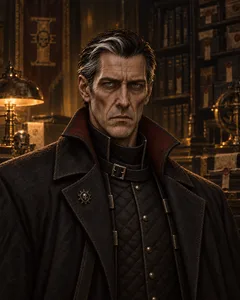
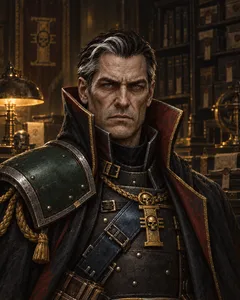
Portraits: make the earlier-incarnation Eisenhorn (v3) leading; refresh QA screenshots

diff --git a/docs/portraits/all-chatgpt.md b/docs/portraits/all-chatgpt.md
@@ -73,7 +73,7 @@ These scenes and unrecorded physical details are **artistic interpretations, not
 | Godwyn Fischig | retinue | [WebP](../../public/portraits/godwyn-fischig.webp) | [PNG](sources/godwyn-fischig.chatgpt.png) | [Prompt](godwyn-fischig-chatgpt.prompt.txt) |
 | Golesh Heldane | inquisition | [WebP](../../public/portraits/golesh-heldane.webp) | [PNG](sources/golesh-heldane.chatgpt.png) | [Prompt](golesh-heldane-chatgpt.prompt.txt) |
 | Gorgone Locke | heretic | [WebP](../../public/portraits/gorgone-locke.webp) | [PNG](sources/gorgone-locke.chatgpt.png) | [Prompt](gorgone-locke-chatgpt.prompt.txt) |
-| Gregor Eisenhorn | inquisition | [WebP](../../public/portraits/gregor-eisenhorn.webp) | [PNG](sources/gregor-eisenhorn.chatgpt-v4.png) | [Prompt](gregor-eisenhorn-chatgpt-v4.prompt.txt) |
+| Gregor Eisenhorn | inquisition | [WebP](../../public/portraits/gregor-eisenhorn.webp) | [PNG](sources/gregor-eisenhorn.chatgpt-v3.png) | [Prompt](gregor-eisenhorn-chatgpt-v3.prompt.txt) |
 | Harlon Nayl | retinue | [WebP](../../public/portraits/harlon-nayl.webp) | [PNG](sources/harlon-nayl.chatgpt-background-v2.png) | [Prompt](harlon-nayl-chatgpt-background-v2.prompt.txt) |
 | Inquisitor Fenx | inquisition | [WebP](../../public/portraits/inquisitor-fenx.webp) | [PNG](sources/inquisitor-fenx.chatgpt.png) | [Prompt](inquisitor-fenx-chatgpt.prompt.txt) |
 | Iosob | civilian | [WebP](../../public/portraits/iosob.webp) | [PNG](sources/iosob.chatgpt.png) | [Prompt](iosob-chatgpt.prompt.txt) |

diff --git a/docs/portraits/revisions-2026-10-09.md b/docs/portraits/revisions-2026-10-09.md
@@ -4,7 +4,7 @@ Four existing portraits were edited with the **built-in ChatGPT Images tool**, p
 
 | Character | Revision direction | Selected source | Exact prompt |
 | --- | --- | --- | --- |
-| Gregor Eisenhorn | Slicked-back dark hair with a silver streak, stern gaunt older face, long charcoal greatcoat with a tall oxblood-lined collar and plain dark fastenings; no later-period cranial framework | [PNG](sources/gregor-eisenhorn.chatgpt-v4.png) | [Prompt](gregor-eisenhorn-chatgpt-v4.prompt.txt) |
+| Gregor Eisenhorn | Earlier incarnation: swept-back dark hair with silver streaks, red-lined collar, green shoulder armour, blue chest strap and gold insignia; no later-period cranial framework | [PNG](sources/gregor-eisenhorn.chatgpt-v3.png) | [Prompt](gregor-eisenhorn-chatgpt-v3.prompt.txt) |
 | Tobias Maxilla | Later-novel blue velvet finery, pale powdered wig, fantail hat, jabot and green jewel beauty spot | [PNG](sources/tobias-maxilla.chatgpt-v2.png) | [Prompt](tobias-maxilla-chatgpt-v2.prompt.txt) |
 | Uber Aemos | More ancient and fragile: hollow cheeks, bony neck, thin age-spotted skin, sparse white hair and narrow sloping shoulders; retain augmetic glasses | [PNG](sources/uber-aemos.chatgpt-v3.png) | [Prompt](uber-aemos-chatgpt-v3.prompt.txt) |
 | Geard Bure | Hood lowered, readable face, functional optics and tool apron in a materials-science laboratory | [PNG](sources/geard-bure.chatgpt-v2.png) | [Prompt](geard-bure-chatgpt-v2.prompt.txt) |
